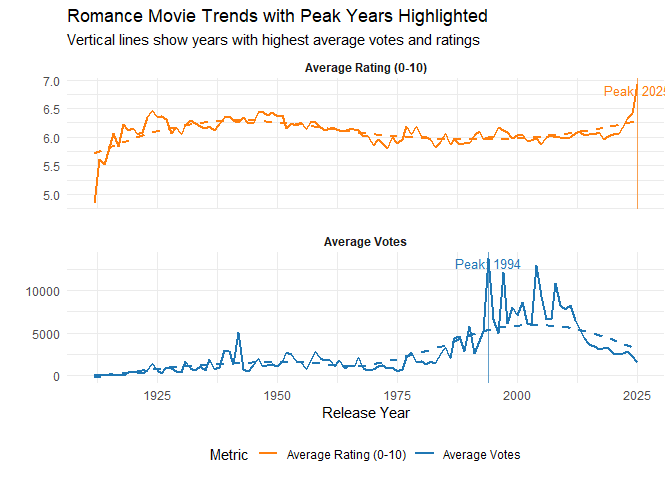
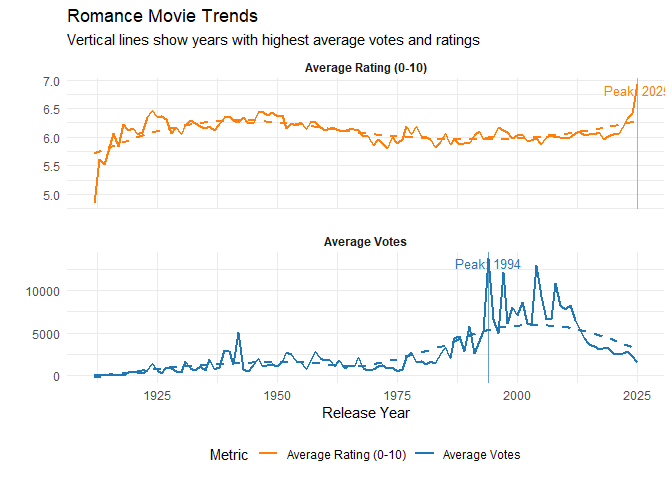
Final with wording for report

Changed region(s): [[0.375, 0.0, 0.7188, 0.0625]]

diff --git a/Movie.md b/Movie.md
@@ -1,5 +1,21 @@
-Movie
+Romance Movies
 ================
+
+- [**How have romance movies’ average ratings and vote counts changed
+  over time, and which movie had the highest rating in each
+  year?**](#how-have-romance-movies-average-ratings-and-vote-counts-changed-over-time-and-which-movie-had-the-highest-rating-in-each-year)
+  - [**What data did you find to help answer that
+    question?**](#what-data-did-you-find-to-help-answer-that-question)
+  - [**What is the relevant background on your
+    question?**](#what-is-the-relevant-background-on-your-question)
+  - [**What level of (quantified) certainty do you have in your
+    results?**](#what-level-of-quantified-certainty-do-you-have-in-your-results)
+  - [**What conclusions did you come
+    to?**](#what-conclusions-did-you-come-to)
+  - [**What questions do you have
+    remaining?**](#what-questions-do-you-have-remaining)
+
+## **How have romance movies’ average ratings and vote counts changed over time, and which movie had the highest rating in each year?**
 
 ``` r
 library(tidyverse)
@@ -19,9 +35,41 @@ library(tidyverse)
 ``` r
 library(ggplot2)
 library(readr)
-library(lubridate)
 library(ggrepel)
 ```
+
+### **What data did you find to help answer that question?**
+
+The IMDB data is from their Non-Commercial Data Set collection. This
+contains several data sets with information such as movie title, release
+date, genre, rating, actor biographical information, and more. This data
+collection is very intensive, with over 11,000,000 entries, each
+representing different short films, movies, and show episodes. The data
+comes verbatim from IMDb, a reputable and very popular movie rating
+service. It is for these reasons that we decided to use this dataset for
+our project. In fact, there was initially too much useful data to
+include in our scope, which is why we focused on romance movies. In
+particular, we used the ‘title.basics’ data set, which contained the
+movie’s primary/original title, genre, duration type, runtime, year of
+release, and whether it was rated for adults. We also used the
+‘title.ratings’ dataset which contained the number of votes and average
+rating for each movie. These datasets were merged using the movies’ IMDb
+ascribed alphanumeric identifiers to create a singular comprehensive
+dataset.
+
+### **What is the relevant background on your question?**
+
+The first romance movie on the dataset is 1894’s “Miss Jerry.” This
+inspired us to plot the ratings of all the romance movies over the 133
+years represented in our data set. Within this time span, we decided to
+highlight when IMDb was established as a platform, as the rating counts
+would increase past this point as IMDb becomes an accessible service for
+newly released movies and their critics. Uncertainty in our model can
+come from this fact, in that there are less votes for older movies,
+creating a lesser confidence rating and negating titles that can
+otherwise be considered mainstream. We also made the choice to filter
+out all the movies that had less than 1,000 reviews, that way we could
+evaluate the mainstream movies we were targeting with our question.
 
 ``` r
 basics <- read_tsv("title.basics.tsv.gz",
@@ -202,7 +250,7 @@ romance_movies %>%
   scale_color_manual(values = c("Average Votes" = "#1f77b4", 
                                "Average Rating (0-10)" = "#ff7f0e")) +
   labs(
-    title = "Romance Movie Trends with Peak Years Highlighted",
+    title = "Romance Movie Trends",
     subtitle = "Vertical lines show years with highest average votes and ratings",
     x = "Release Year",
     y = "",
@@ -225,3 +273,61 @@ romance_movies %>%
     ## `geom_smooth()` using formula = 'y ~ x'
 
 ![](Movie_files/figure-gfm/unnamed-chunk-6-1.png)<!-- -->
+
+### **What level of (quantified) certainty do you have in your results?**
+
+We are confident that our top 10 movies are acceptable results, because
+we filtered films with less than 1,000 votes. Any movies missing from
+the IMDb database would be less popular movies, and thus would be
+irrelevant to our study anyways. This ensures we reduce the noise of
+films with fewer votes often have inflated ratings, our cutoff ensures
+the stability in our model. However, considering the fact that IMDb is
+the most comprehensive database of movies available, we cannot find a
+larger population to quantify uncertainty in our existing sample of
+movies. We compared our top movies from our figure to the current top
+ten romance movies listed in IMDB. We have an overlap of 5/10 movies in
+our visual, the reason for this is that all the films in the top 10
+romance IMDB list are filtered differently and have at least 40 k votes.
+
+### **What conclusions did you come to?**
+
+We created two graphs: Romance Movie Trends and Highest-Rated Romance
+Movie of Each Year.
+
+The first one creates a visualization of two separate line graphs,
+pulling data from movies that have at least one of the genres filled as
+romance. The orange graph at the top focuses on the average rating for
+every movie and gives an average for all of the ones that came out in
+the same year. The blue graph on the bottom shows the average number of
+votes for each movie and complies all of the ones that came out in the
+same year.
+
+The second graph creates a visualization of a line chart plotting the
+highest rated romance movie that came out in a given year, filtered by
+titles that have over a thousand votes. The graph features dots that
+change saturation depending on the rating, and the dots’ size depends on
+how many votes a movie has.
+
+We discovered that the highest-rated mainstream romance movies have come
+out in the 2020s, with 2025 being the peak. This would mean that the
+best movies are coming out currently! We decided that it may not be the
+most accurate, as a small number of votes could oversaturate the rating,
+and so we graphed the highest rating for each movie per year over 1,000
+votes. To answer our question, ‘How have romance movies’ average ratings
+and vote counts changed over time, and which movie had the highest
+rating in each year?’, romance movies have the highest average ratings
+that they’ve ever had, and IMDb votes jumped right after the site
+launched.
+
+### **What questions do you have remaining?**
+
+One question we have is how to quantitatively establish what films are
+‘mainstream’. In this study, we just arbitrarily established movies with
+over 1,000 votes as mainstream, but perhaps there is a more precise and
+accurate way to quantify a mainstream movie. Further, while IMDb is the
+most comprehensive database of movies available to the public, there is
+the concept of ‘lost media’ that we cannot account for. There are movies
+and TV shows that existed but no longer have any physical record and
+thus cannot be represented in the IMDb dataset. Perhaps if we had a
+count of the lost media, we could create a confidence interval to
+account for this lack of data.
